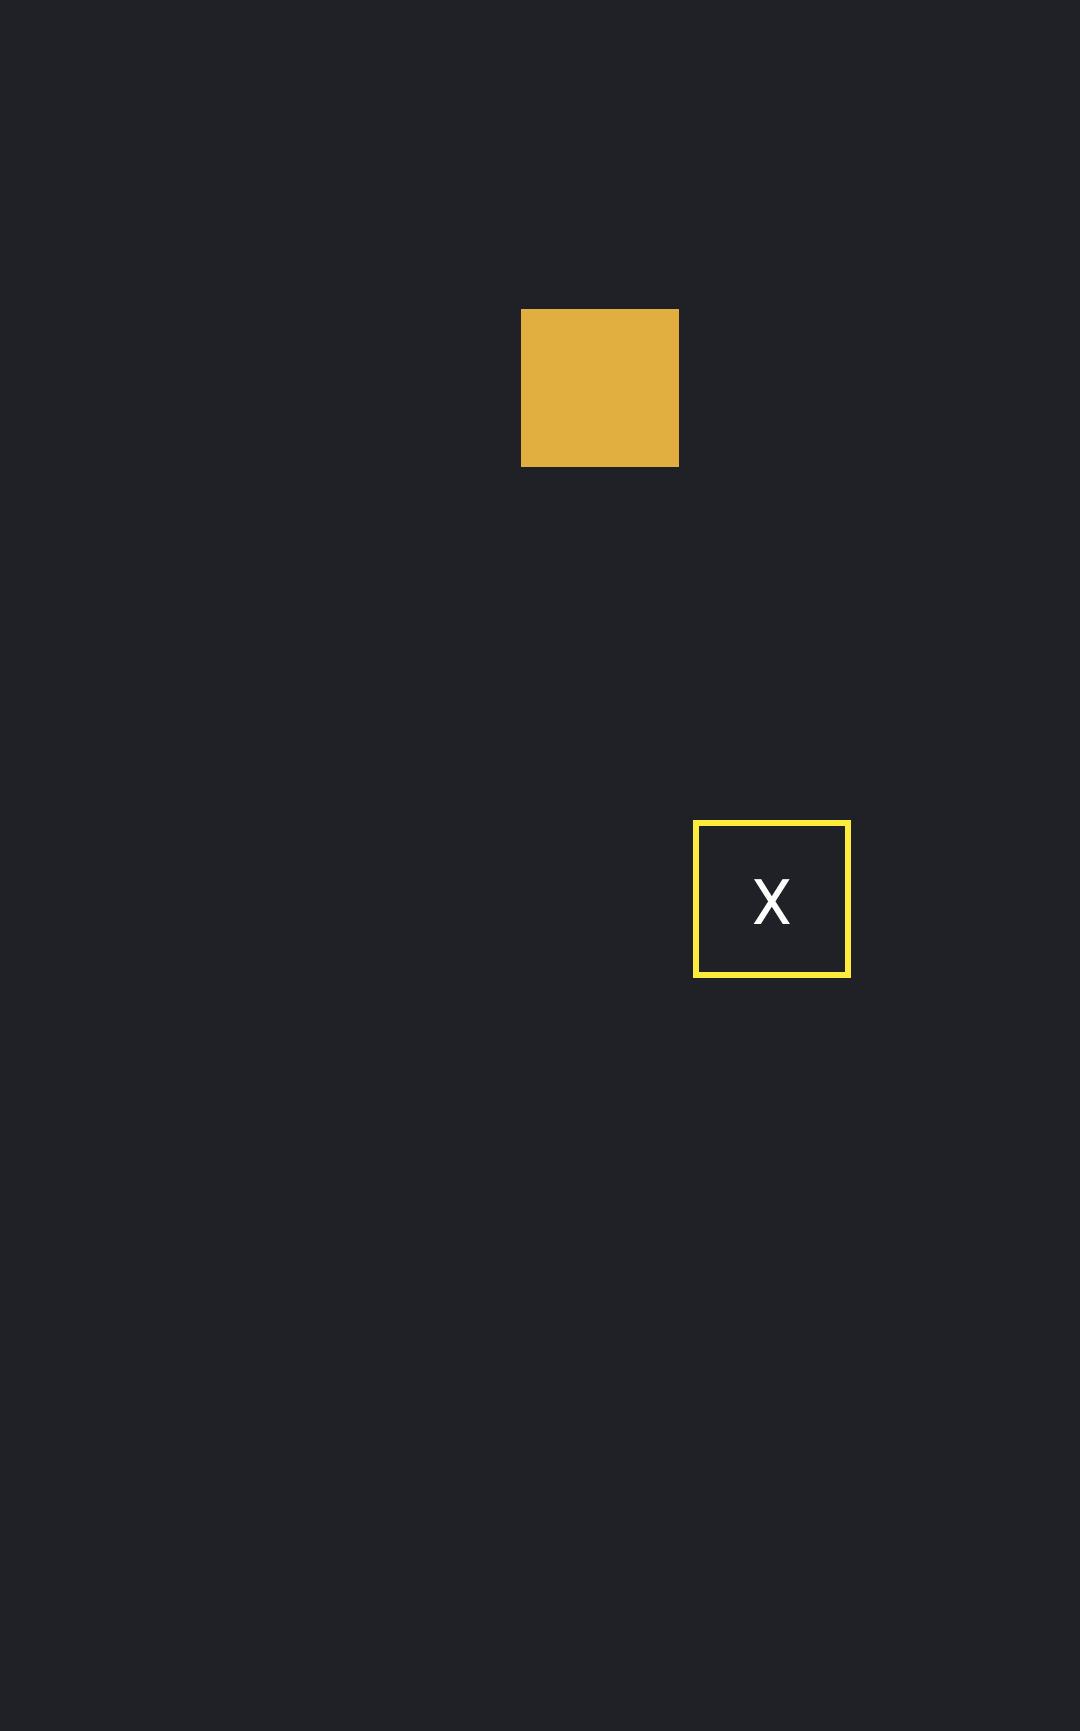
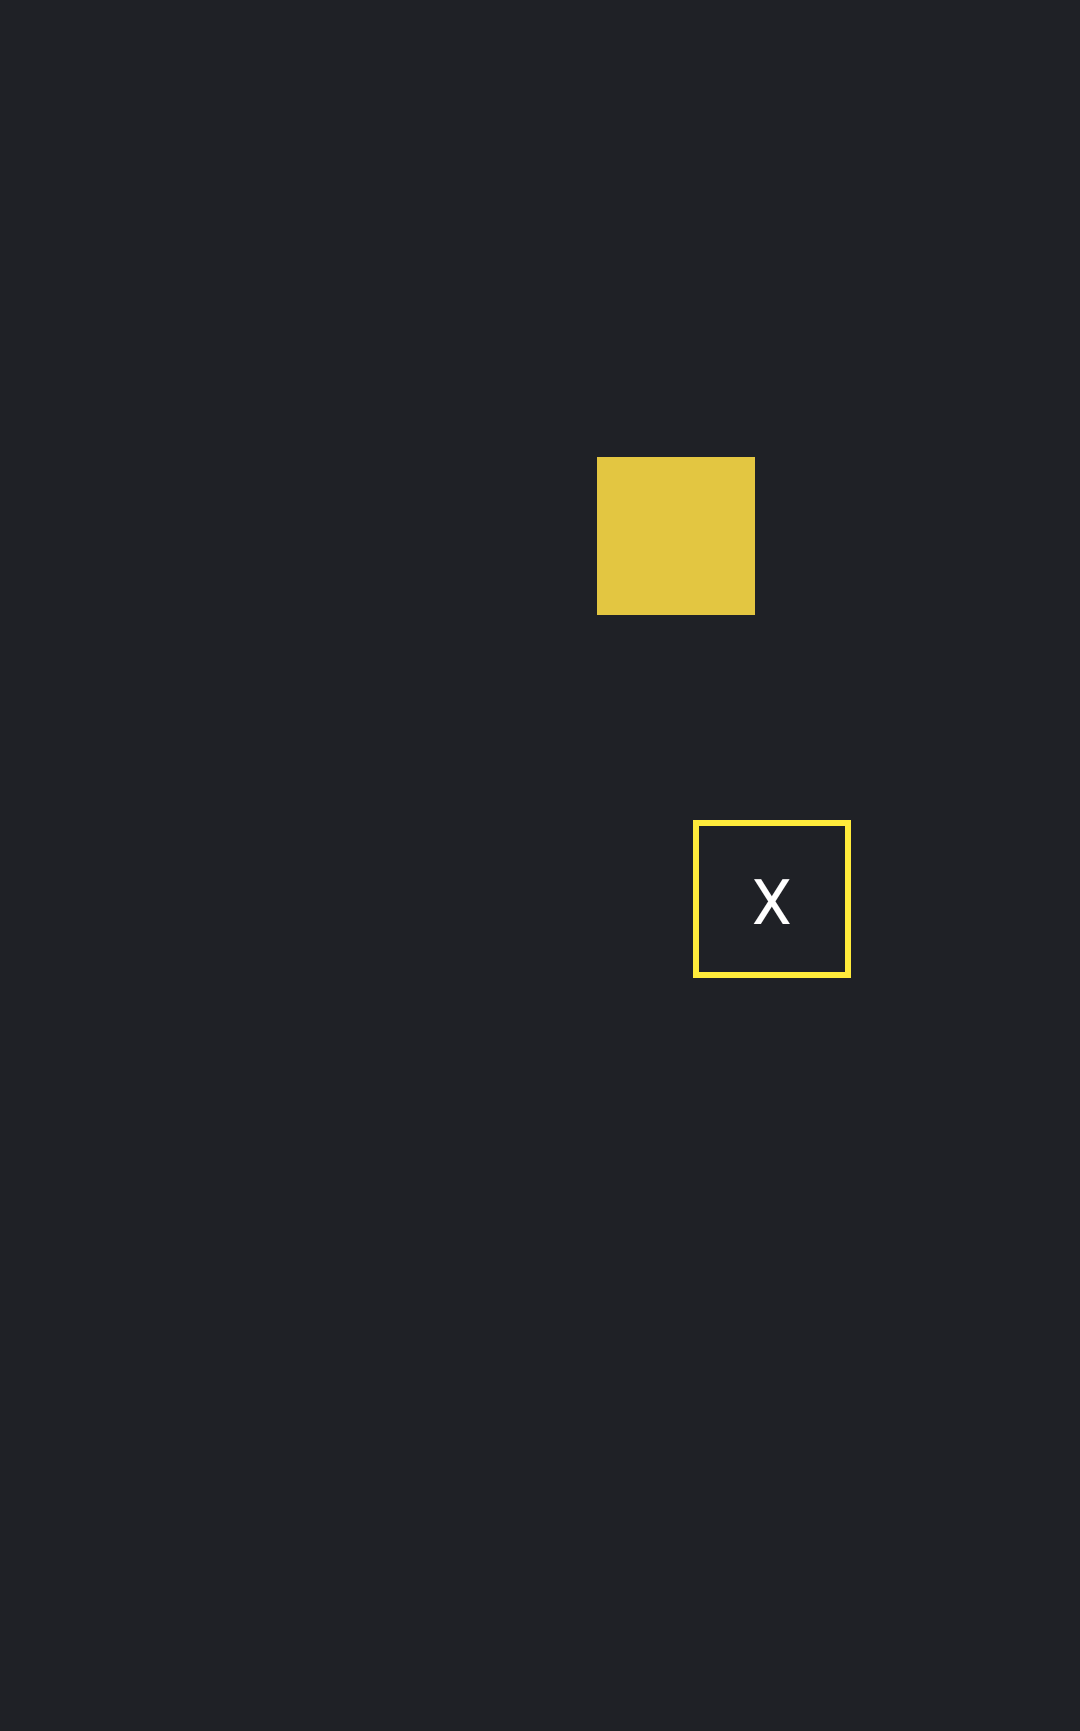
Replace tween with spring for testing transition from Keyframe to Update.

Changed region(s): [[0.4583, 0.156, 0.7028, 0.3744]]

diff --git a/appyx-interactions/android/src/androidTest/kotlin/com/bumble/appyx/interactions/sample/testdrive/KeyframesToUpdateTest.kt b/appyx-interactions/android/src/androidTest/kotlin/com/bumble/appyx/interactions/sample/testdrive/KeyframesToUpdateTest.kt
@@ -1,5 +1,7 @@
 package com.bumble.appyx.interactions.sample.testdrive
 
+import androidx.compose.animation.core.Spring
+import androidx.compose.animation.core.spring
 import androidx.compose.ui.test.junit4.createComposeRule
 import com.bumble.appyx.interactions.core.model.transition.Operation
 import com.bumble.appyx.interactions.sample.snapshot
@@ -21,20 +23,21 @@ class KeyframesToUpdateTest {
     fun when_in_segment_interrupt_with_update() {
         val testController = TestDriveController(
             composeTestRule = composeTestRule,
-            autoAdvance = false
+            autoAdvance = false,
+            animationSpec = spring(stiffness = Spring.StiffnessLow)
         )
 
         testController.operation(
             operation = Next(Operation.Mode.KEYFRAME)
         )
 
-        testController.advanceTimeBy(500)
+        testController.advanceTimeBy(150)
 
         testController.operation(
             operation = Next(Operation.Mode.IMMEDIATE)
         )
 
-        testController.advanceTimeBy(50)
+        testController.advanceTimeBy(150)
 
         composeTestRule.snapshot("${javaClass.simpleName}_${nameRule.methodName}")
     }
